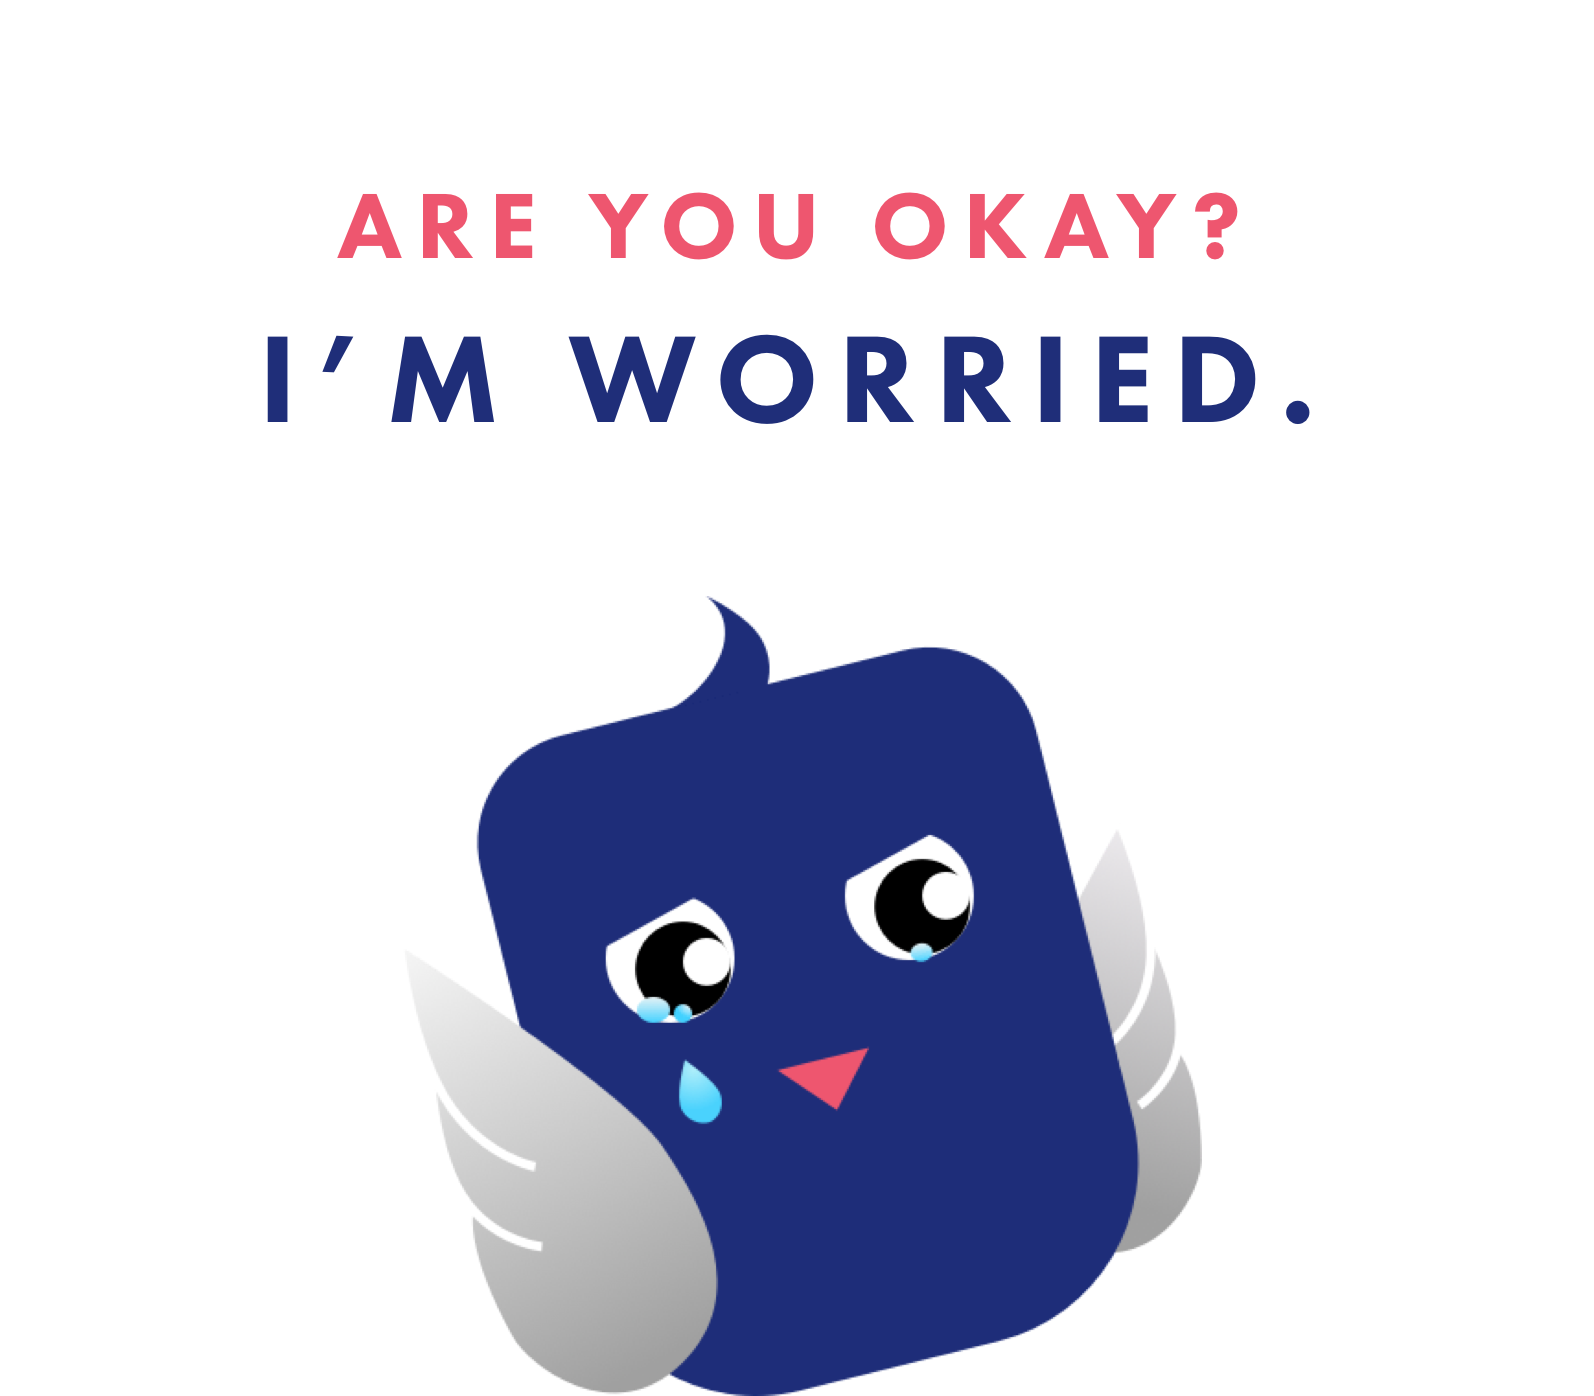
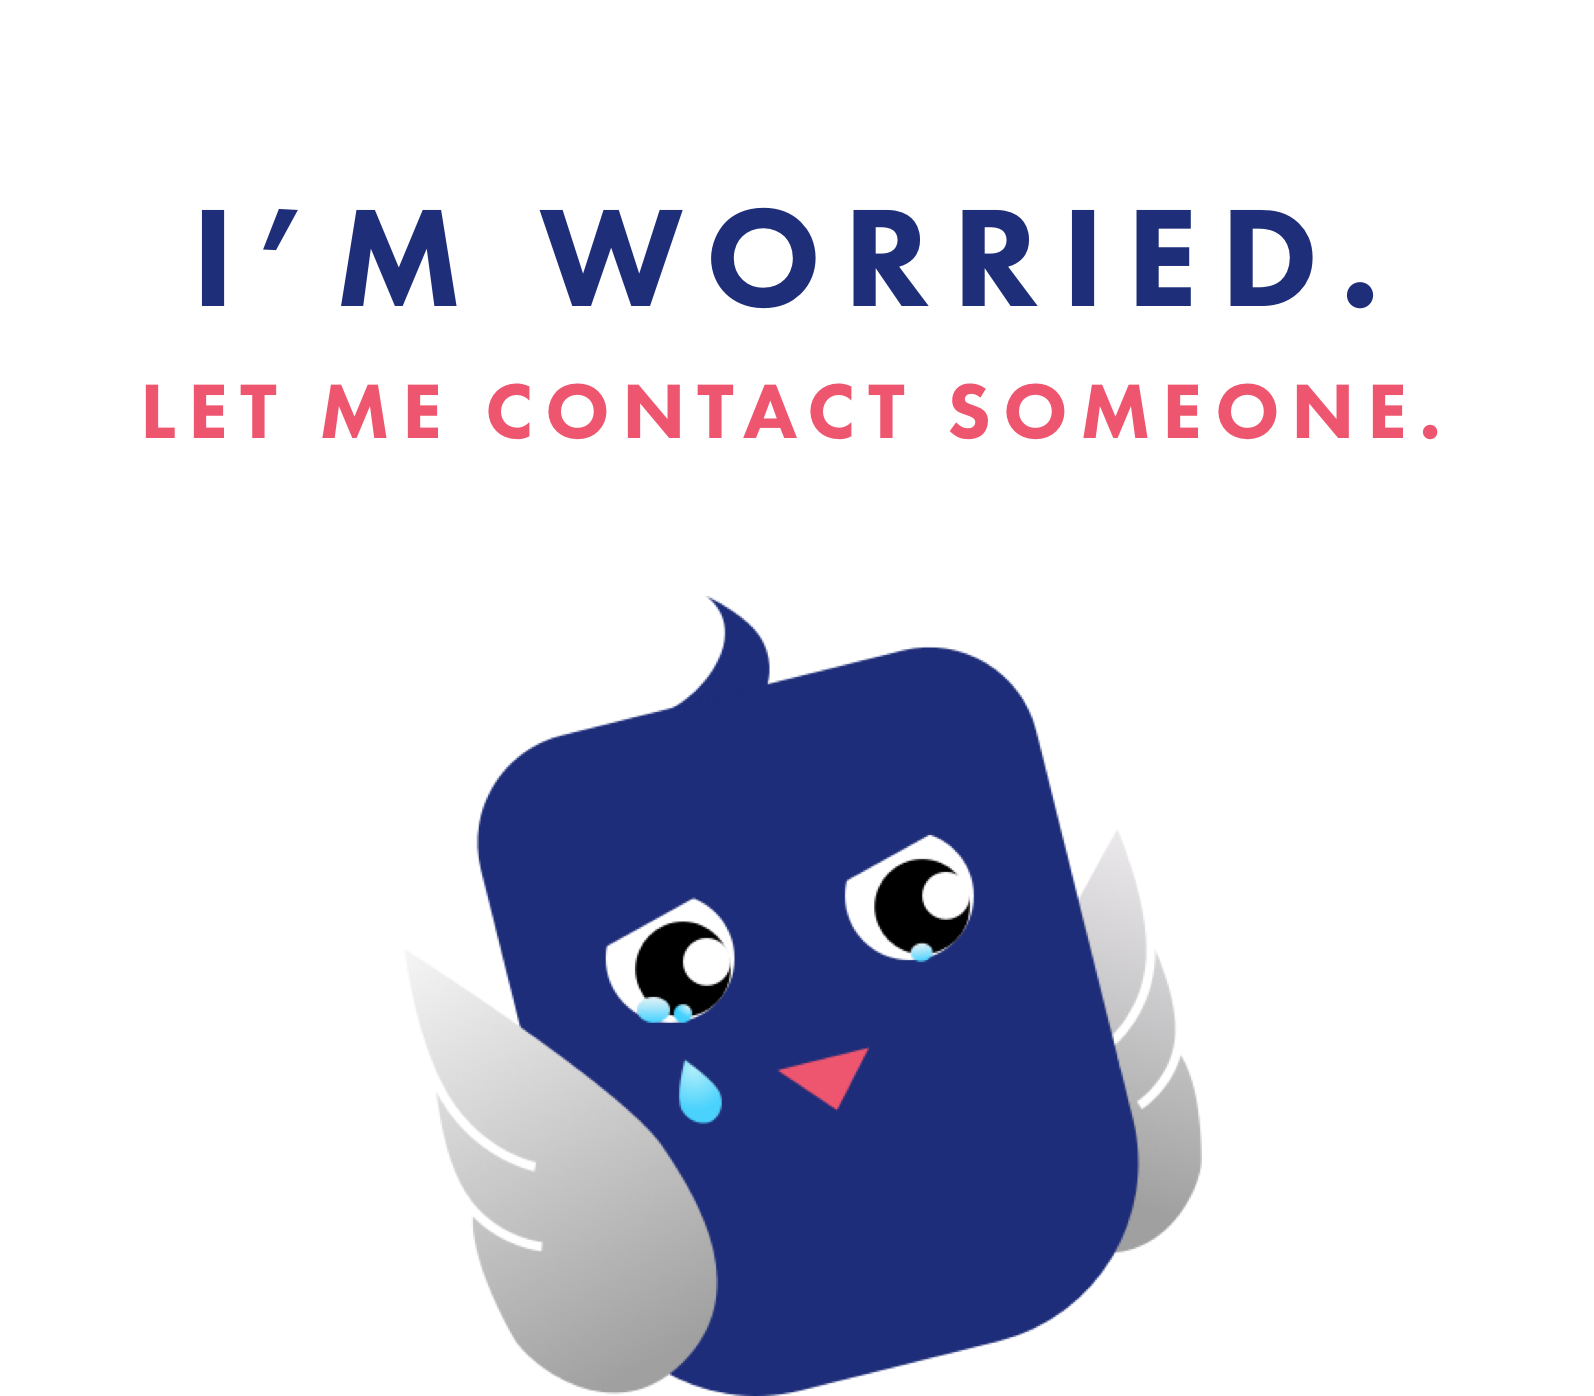
add two pages, modehappy adn modeWorried

Changed region(s): [[0.0922, 0.1232, 0.8915, 0.3388], [0.123, 0.154, 0.1844, 0.2156]]

diff --git a/app.js b/app.js
@@ -133,6 +133,8 @@ app.post('/signup', userController.postSignup);
 app.get('/contact', contactController.getContact);
 app.post('/contact', contactController.postContact);
 app.get('/party', partyController.getParty);
+app.get('/partyYes', partyController.getPartyYes);
+app.get('/modeHappy', partyController.getModeHappy);
 app.get('/account', passportConf.isAuthenticated, userController.getAccount);
 app.post('/account/profile', passportConf.isAuthenticated, userController.postUpdateProfile);
 app.post('/account/password', passportConf.isAuthenticated, userController.postUpdatePassword);

diff --git a/controllers/party.js b/controllers/party.js
@@ -9,6 +9,14 @@ exports.getParty = function(req, res) {
 };
 
 
-exports.app = function(req, res) {
-  res.render('app', {});
+exports.getPartyYes = function(req, res) {
+  res.render('partyYes', {
+    title: 'PartyYes'
+  });
+};
+
+exports.getModeHappy = function(req, res) {
+  res.render('modeHappy', {
+    title: 'ModeHappy'
+  });
 };
